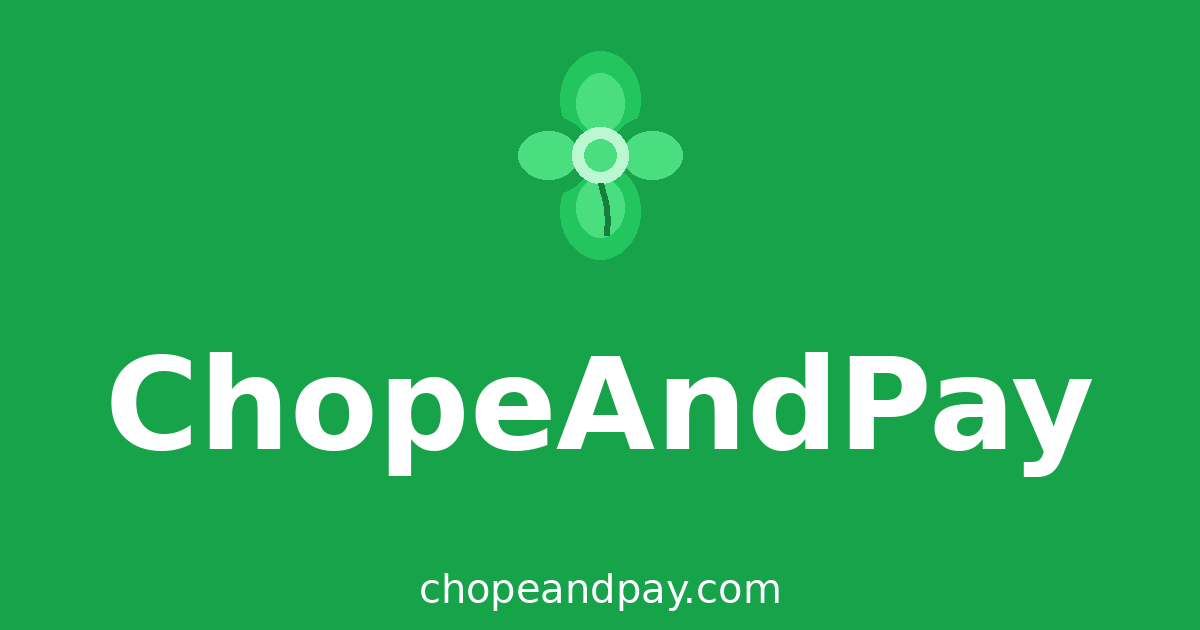
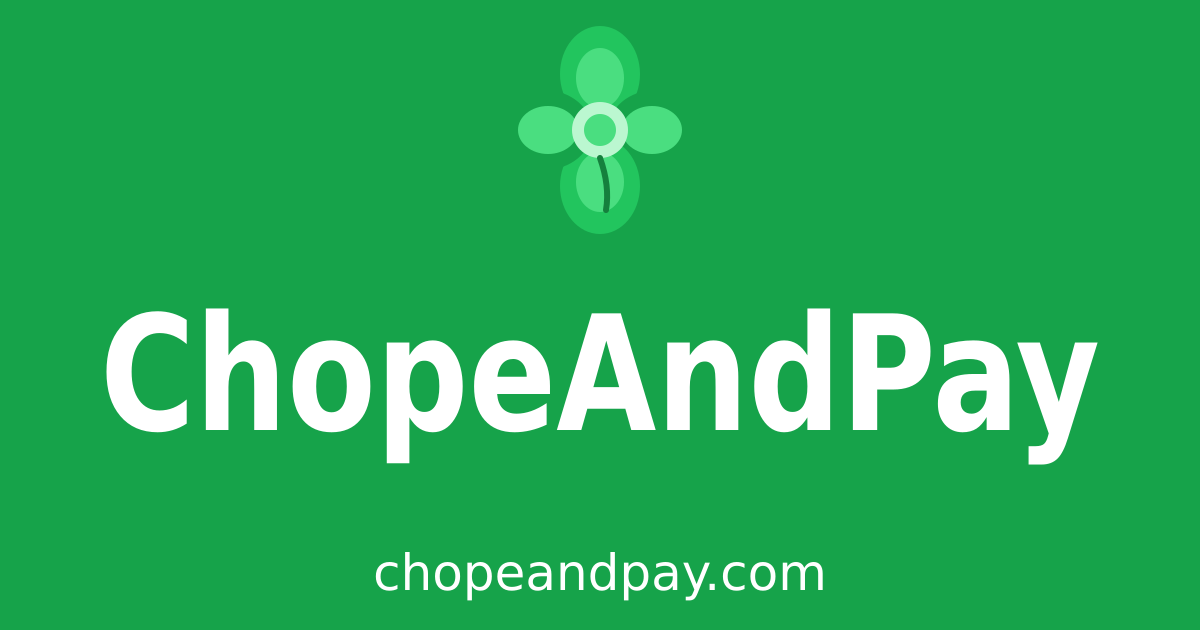
Redesign og-image.png to prevent text cropping
Render with sharp/SVG instead of PIL: clover sized >=200px in top 40%
of the canvas, title text horizontally compressed via SVG transform
to keep >=100px side padding while preserving the requested font
size, and add og:image:width/height meta tags confirming 1200x630.

Claude-Session: https://claude.ai/code/session_013AwHPxMjgQUqhbiUEuvwV9

Changed region(s): [[0.0617, 0.4825, 0.925, 0.754], [0.4317, 0.0302, 0.5858, 0.4222], [0.3083, 0.8746, 0.7092, 0.9651]]

diff --git a/index.html b/index.html
@@ -17,6 +17,8 @@
       content="Chope your slots. Track your lessons. Get paid on time."
     />
     <meta property="og:image" content="/og-image.png" />
+    <meta property="og:image:width" content="1200" />
+    <meta property="og:image:height" content="630" />
     <meta property="og:url" content="https://chopeandpay.com" />
     <meta name="apple-mobile-web-app-capable" content="yes" />
     <meta name="apple-mobile-web-app-status-bar-style" content="default" />
